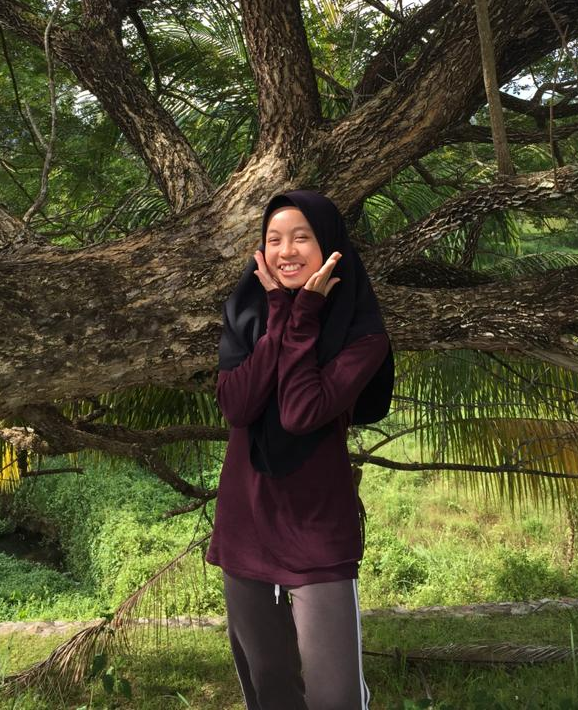
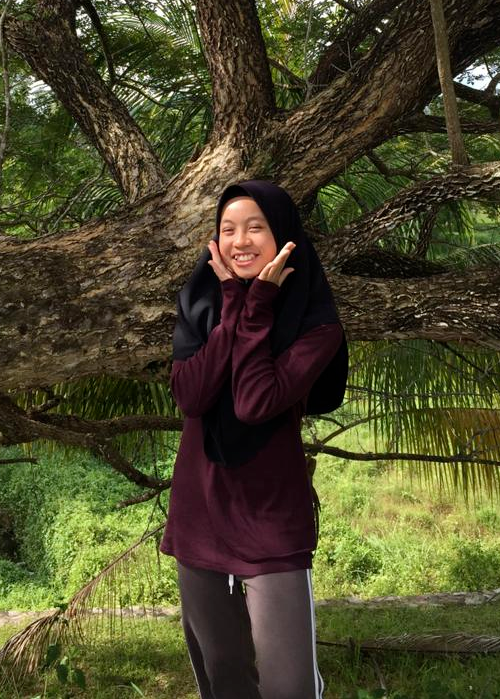
commit06

diff --git a/index.html b/index.html
@@ -36,7 +36,7 @@
         <div class="introduction-text">
             <h1>Hi!</h1>
         </div>
-        <img src="/assets/pic02.png">
+        <img src="/assets/pic01.png">
         
     </div>
 
